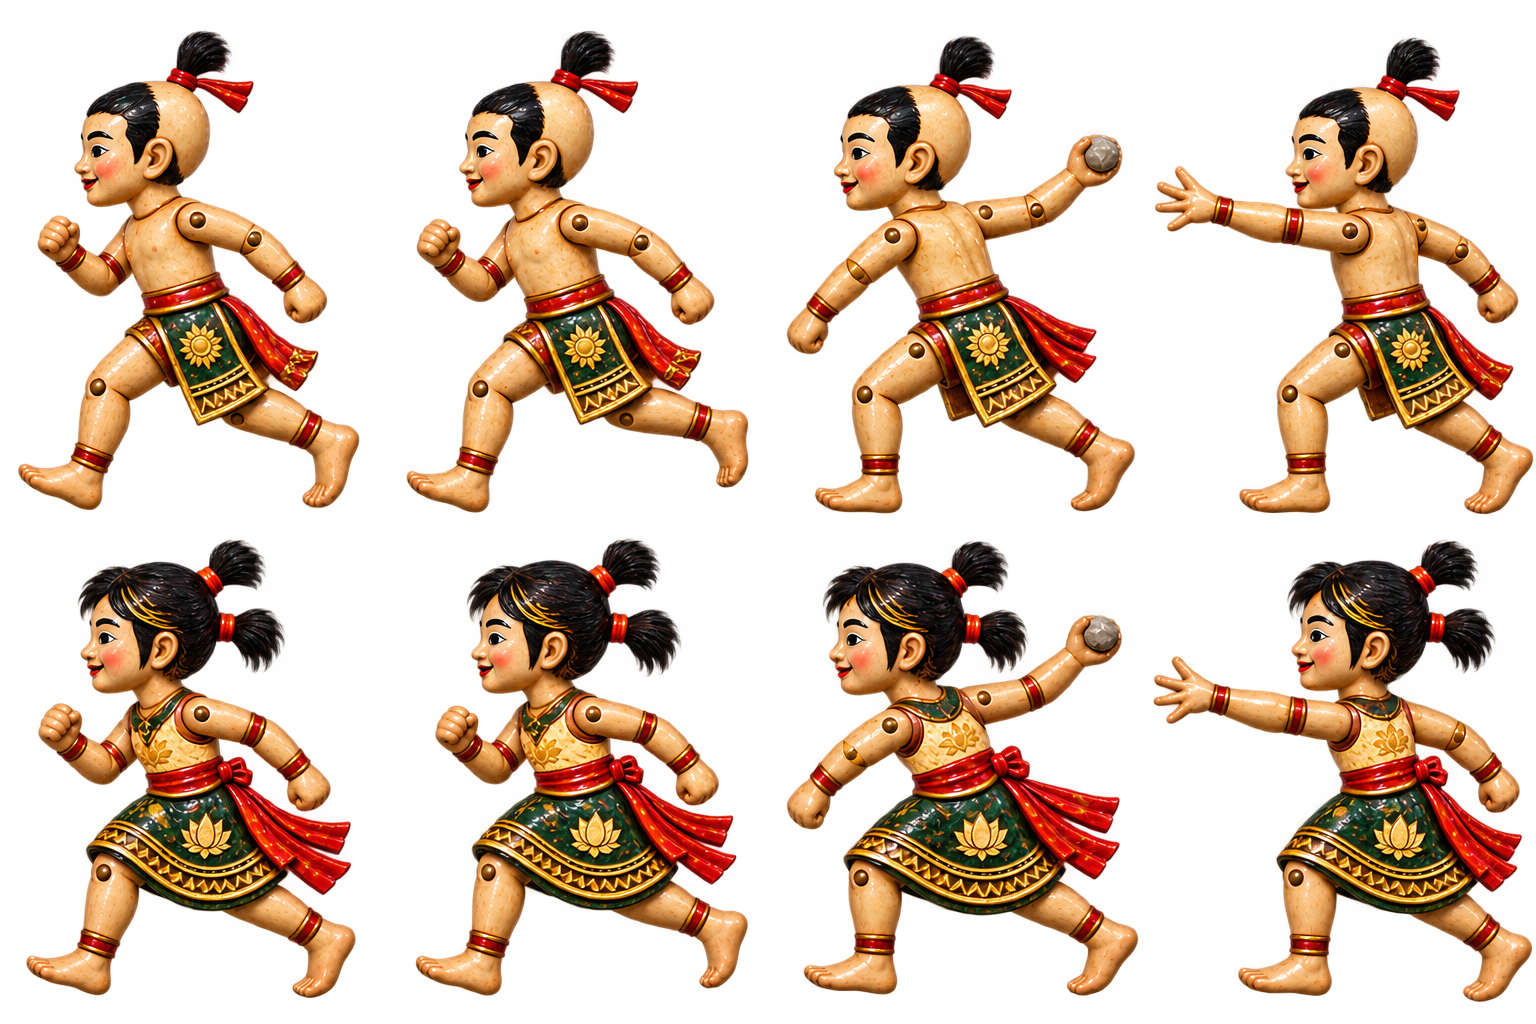
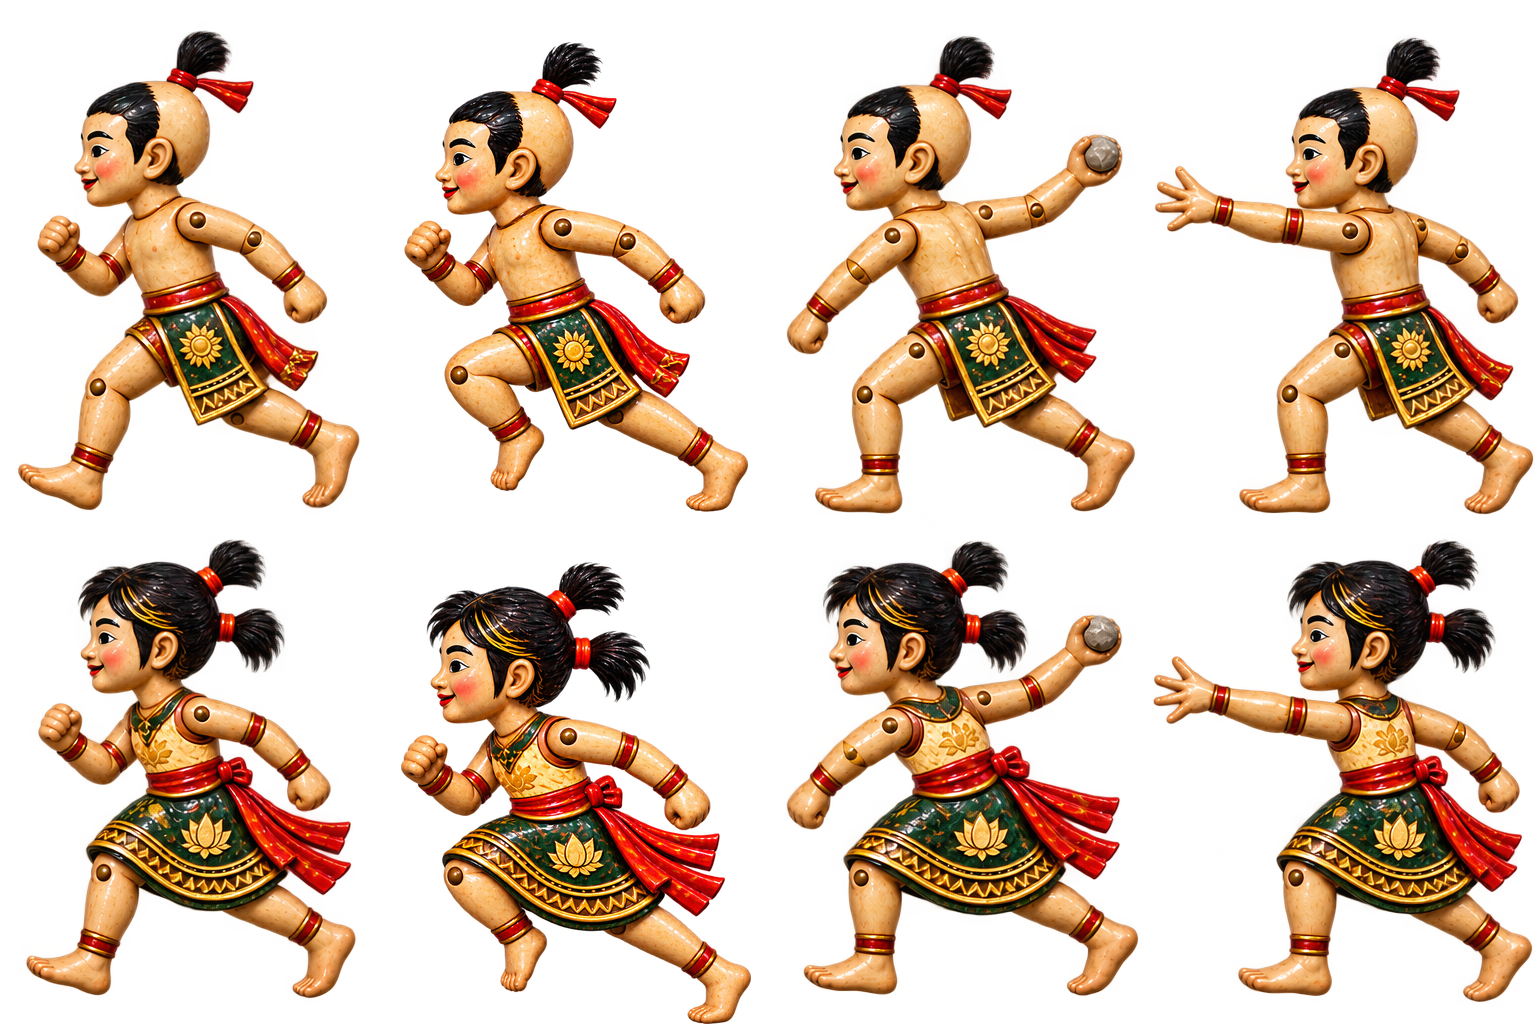
Complete distinct left-facing Bronze Drum children running poses

Changed region(s): [[0.25, 0.5312, 0.5, 1.0], [0.25, 0.0312, 0.5, 0.5]]

diff --git a/bronzedrum/design/image-requests.md b/bronzedrum/design/image-requests.md
@@ -59,8 +59,8 @@ The second source is the **Dong Son bronze drum** (Lac Viet, before and around t
 | Effects | 3 | 0 | 0 | 0 | 3 | 0 |
 | Story chapters | 22 | 0 | 0 | 0 | 22 | 0 |
 | Drum Practice | 6 | 0 | 0 | 0 | 6 | 0 |
-| Water puppets (alternate style) | 60 | 0 | 0 | 0 | 59 | 1 |
-| **total** | **152** | **0** | **0** | **0** | **151** | **1** |
+| Water puppets (alternate style) | 60 | 0 | 0 | 0 | 60 | 0 |
+| **total** | **152** | **0** | **0** | **0** | **152** | **0** |
 
 ## Style frames: choose the direction first (3)
 
@@ -1142,8 +1142,7 @@ The water-puppet version of BD-C06, shown in its place when Settings, Style is W
 The water-puppet version of BD-C15, shown in its place when Settings, Style is Water puppets. The first chapter's last lesson, blocking: once the targets are down two children run in from the right, stop a little way ahead of the women and lob small stones at them until the player blocks, then run off the way they came (the game flips them). The game draws the stones. Shown 74 px tall, so keep the shapes bold and the poses easy to read.
 
 - **Spec:** 1536x1024, transparent; a grid of 4 columns (poses) by 2 rows (children), 384x512 cells, each child standing on the bottom of its cell, facing LEFT, centred. Columns: 1 running, one leg forward; 2 running, the other leg forward; 3 one arm drawn far back with a stone in the hand; 4 the throw, arm flung forward, hand open. Row 1 a boy with a shaved head and a topknot, in a loincloth; row 2 a girl with her hair in two short tufts, in a wrapped skirt. Same scale in every cell. transparent background (PNG with alpha). If transparency is not possible, use a flat pure magenta #FF00FF background with nothing else on it and no cast shadow: the game adds its own shadow. Keep the pose, facing, framing and size of the shadow-puppet version (art/children-sheet.png) so the two swap in the game, but not its look: see the prompt.
-- **Status:** delivered; regenerate (the game keeps the current file until the new one arrives) · **Stand-in:** `children-sheet (the shadow-puppet image)` · **Game id:** `wp-children-sheet`
-- **Regenerate because:** The first take traced the shadow-puppet sprite: a flat cut-paper figure in lacquer colours, not a carved wooden puppet like those of the style frame BD-W01.
+- **Status:** delivered · **Stand-in:** `children-sheet (the shadow-puppet image)` · **Game id:** `wp-children-sheet`
 - **File:** `bronzedrum/game/assets/art/wp-children-sheet.png`
 - **Prompt:** Vietnamese water puppetry (mua roi nuoc) of the Red River delta, played on a village pond in front of a water pavilion. The figures are puppets carved from light fig wood and finished in glossy traditional lacquer: vermilion, black, ochre yellow and jade green, with gold and silver leaf. Naive, rounded carved faces with painted arched eyebrows, rosy cheeks and calm smiles; chunky simplified limbs with visible round pegs at the joints; a wet sheen on the lacquer. Scenery is painted in the style of Vietnamese lacquer painting (son mai): deep black and brown-red grounds, layered vermilion, gold and silver leaf, crushed eggshell for the whites, polished to a soft gloss. Motifs from Dong Son bronze drums (a 12-point sun-star, concentric rings, flying herons, feather-crowned figures, long boats, stilt houses with saddle roofs) and northern Vietnamese plants (areca palms, bamboo, lotus, rice). Folk, joyful and ceremonial, lit from the front by warm lanterns. Palette: black lacquer, vermilion, cinnabar red, gold leaf, ochre yellow, eggshell cream, jade green and deep green-brown pond water. No paper cut-outs, no silhouettes, no backlight, no photorealism, no 3D render look, no text, no watermark. Match the puppets of the water-puppet style frame BD-W01 (bronzedrum/design/references/w01-water-puppet-frame.png; give it to the generator as the style reference): each figure a carved wooden doll with a large round head, a smooth glossy face painted pale with rosy cheeks, arched black brows and a small calm smile, carved hair and headdress, a sturdy body and rounded limbs with visible round joint pegs at the shoulders, elbows and hips, the costume carved in low relief and painted in glossy lacquer with gold-leaf trim, warm highlights on the wet lacquer. From the shadow-puppet image take only the pose, the facing and the framing; do not copy its flat cut-paper patterns, its cut-out holes or its silhouette look. A sprite sheet of two cheeky Lạc Việt village children, about seven years old, in profile facing left, on a grid of 4 columns by 2 rows: row 1 a barefoot boy with a shaved head and a little topknot, in a loincloth; row 2 a barefoot girl with two short tufts of hair, in a wrapped skirt with a lacquer-red sash. Columns: running with one leg forward; running with the other leg forward; winding up with one arm drawn far back, a small stone in the hand; the throw, arm flung forward, hand open. Ink-black silhouettes with fine cut details, mischievous rather than menacing.
 

diff --git a/bronzedrum/README.md b/bronzedrum/README.md
@@ -156,8 +156,8 @@ were regenerated as rounded carved wooden puppets, and BD-WP11 now includes
 the water pavilion. The water sisters use independently measured crop boxes;
 shadow art and rigs are retained. Replacement provenance and native/export sizes
 are recorded in `design/image-regenerations-water-puppets.json`.
-BD-WC15 now faces left, but its running frames still need more distinct opposite
-leg poses, so that request remains marked `regenerate`.
+BD-WC15 faces left and has distinct stride and tucked-leg running poses.
+All 19 water-puppet regeneration requests are delivered.
 
 All 152 requests have generated artwork, including BD-C14, the wider drum
 palanquin with standing places for the sisters, and the five Drum Practice assets
